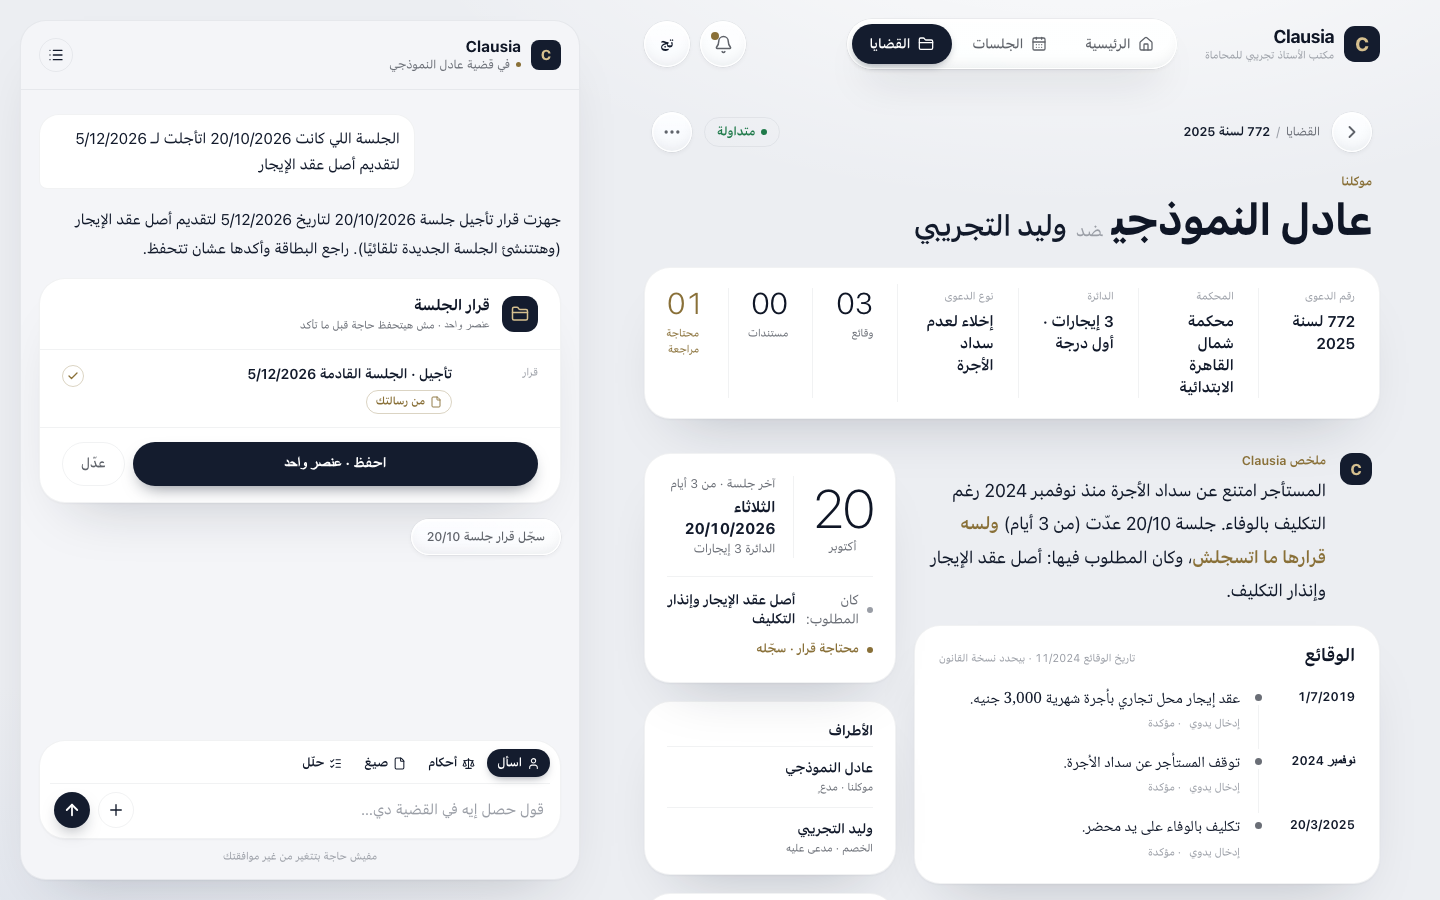
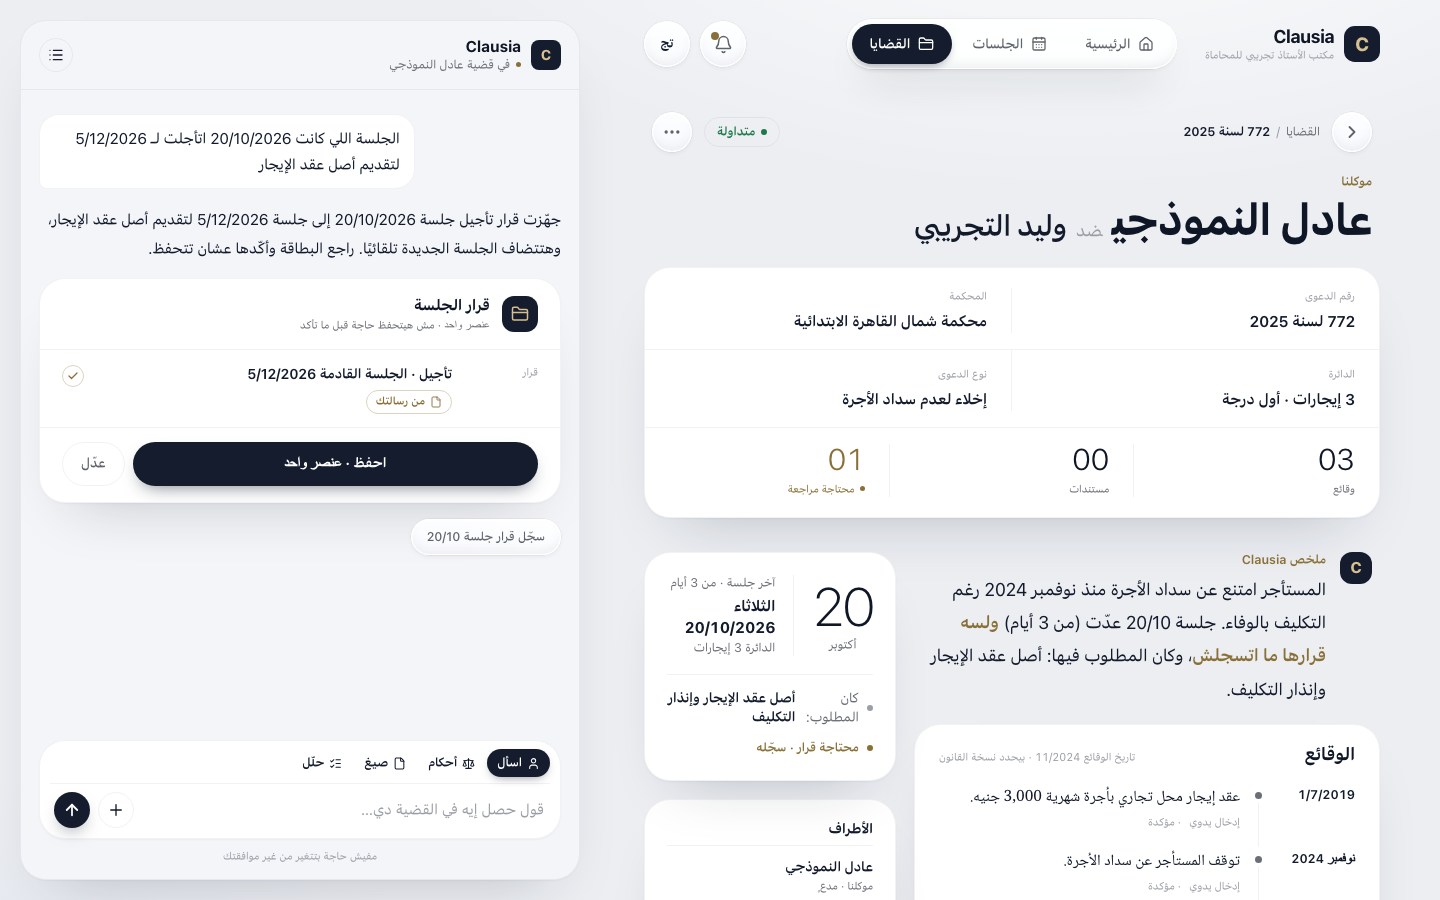
Case header card wraps by its column's width (4 over 3, or 2x2 then 3); case shots re-shot

diff --git a/src/components/cases/CaseHeader.tsx b/src/components/cases/CaseHeader.tsx
@@ -1,7 +1,7 @@
 // The case page header (docs/design/*Case.dc.html), v2: who first — «موكلنا», the client's name big, «ضد <opponent>».
 // Desktop (item 19): row 1 = back · breadcrumb «القضايا / <number>» … status chip, then «…» at the far end (owner:
 // it holds the moved links — case data, hearings, case chat, JSON); row 2 = eyebrow
-// + the name with «ضد <opponent>» on the same line; row 3 = one solid card of 7 cells split by hairlines — number,
+// + the name with «ضد <opponent>» on the same line; row 3 = one solid card of 7 cells split by hairlines (it wraps by the width of its column, see below) — number,
 // court, circuit, type | facts, docs, needs review (big light numbers, gold only when > 0).
 // Mobile: back + «…» floating, eyebrow + status, the name, «ضد» below, then a 2×2 solid spec card, no stats (the tabs
 // and the banner carry them). Sizes follow the mockups to the pixel. Text the mockups leave at `line-height: normal`
@@ -104,20 +104,26 @@ export function CaseHeader({ cf, caseId, stats }: { cf: CaseFile; caseId: string
         ))}
       </dl>
 
-      {/* lg+: one card, 4 spec cells (1fr) | a 1px hairline | 3 stat cells (0.7fr), 20px top and bottom */}
-      <div className="mt-5.5 hidden grid-cols-[repeat(4,minmax(0,1fr))_1px_repeat(3,minmax(0,0.7fr))] items-stretch rounded-xl border border-border-2 bg-card py-5 shadow-card lg:grid">
-        <dl className="contents">
-          {spec.map((s, i) => (
-            <div key={s.label} className={`min-w-0 px-6 ${i > 0 ? "border-s border-border-2" : ""}`}>
-              <dt className="text-xs leading-4 text-text-4">{s.label}</dt>
-              <dd className={`mt-1.75 text-md leading-[1.4] ${s.value ? "font-semibold text-text" : "text-text-4"}`}>
-                {s.value ?? empty(s.fem)}{s.value && s.extra ? ` · ${s.extra}` : null}
-              </dd>
-            </div>
-          ))}
-        </dl>
-        <div aria-hidden className="-my-1 bg-border-2" />
-        {stats.map((s, i) => <StatCell key={s.label} s={s} first={i === 0} />)}
+      {/* lg+: one card of 7 cells. It follows the width of its own column (the page column is narrower than the screen now: the
+          chat panel sits beside it): ≥1280 wide — one row, 4 spec cells | hairline | 3 stats; ≥768 — the 4 spec cells over the 3 stats;
+          narrower — the spec cells 2 × 2, then the stats. Nothing scrolls sideways and no text is clipped. */}
+      <div className="@container mt-5.5 hidden lg:block">
+        <div className="grid grid-cols-2 gap-y-4 rounded-xl border border-border-2 bg-card py-5 shadow-card @3xl:grid-cols-4 @3xl:gap-y-0 @7xl:grid-cols-[repeat(4,minmax(0,1fr))_1px_repeat(3,minmax(0,0.7fr))] @7xl:items-stretch">
+          <dl className="contents">
+            {spec.map((s, i) => (
+              <div key={s.label} className={`min-w-0 px-6 ${i % 2 ? "border-s border-border-2" : ""} ${i >= 2 ? "border-t border-border-2 pt-4" : ""} @3xl:border-t-0 @3xl:pt-0 ${i > 0 ? "@3xl:border-s @3xl:border-border-2" : ""}`}>
+                <dt className="text-xs leading-4 text-text-4">{s.label}</dt>
+                <dd className={`mt-1.75 text-md leading-[1.4] ${s.value ? "font-semibold text-text" : "text-text-4"}`}>
+                  {s.value ?? empty(s.fem)}{s.value && s.extra ? ` · ${s.extra}` : null}
+                </dd>
+              </div>
+            ))}
+          </dl>
+          <div aria-hidden className="-my-1 hidden bg-border-2 @7xl:block" />
+          <div className="col-span-full grid grid-cols-3 border-t border-border-2 pt-4 @7xl:contents">
+            {stats.map((s, i) => <StatCell key={s.label} s={s} first={i === 0} />)}
+          </div>
+        </div>
       </div>
     </header>
   );
